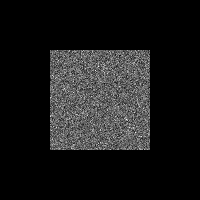
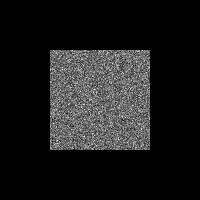
Implementation

Changed region(s): [[0.24, 0.24, 0.75, 0.75]]

diff --git a/src/main/java/net/danielthompson/danray/films/AbstractFilm.java b/src/main/java/net/danielthompson/danray/films/AbstractFilm.java
@@ -29,21 +29,21 @@ public abstract class AbstractFilm {
 
    protected void AddSampleToPixel(int x, int y, Sample sample, float weight) {
 
-      float existingImageWeight = Weights[x][y];
+      if (Samples[x][y] == null)
+         Samples[x][y] = new Spectrum();
 
       Weights[x][y] += weight;
+      Samples[x][y].add(SpectralPowerDistribution.scale(sample.SpectralPowerDistribution, weight));
 
-      float sumWeight = existingImageWeight + weight;
+      float r = Samples[x][y].R / Weights[x][y];
+      float g = Samples[x][y].G / Weights[x][y];
+      float b = Samples[x][y].B / Weights[x][y];
 
-      existingImageWeight /= sumWeight;
-      weight /= sumWeight;
+      float clampedR = clamp(0.0f, r, 1.0f);
+      float clampedG = clamp(0.0f, g, 1.0f);
+      float clampedB = clamp(0.0f, b, 1.0f);
 
-      SpectralPowerDistribution existingSPD = new SpectralPowerDistribution(new Color(Image.getRGB(x, y)));
-
-      SpectralPowerDistribution finalColor = SpectralPowerDistribution.Lerp(existingSPD, existingImageWeight, sample.SpectralPowerDistribution, weight);
-
-      Color c = new Color(finalColor.R, finalColor.G, finalColor.B);
-
+      Color c = new Color(clampedR, clampedG, clampedB);
       Image.setRGB(x, y, c.getRGB());
    }
 

diff --git a/src/main/java/net/danielthompson/danray/films/BoxFilterFilm.java b/src/main/java/net/danielthompson/danray/films/BoxFilterFilm.java
@@ -18,7 +18,6 @@ public class BoxFilterFilm extends AbstractFilm {
 
    @Override
    public void AddSamples(float x, float y, Sample[] samples) {
-
       int xFloor = (int)x;
       int yFloor = (int)y;
 
@@ -30,18 +29,16 @@ public class BoxFilterFilm extends AbstractFilm {
          Samples[xFloor][yFloor] = new Spectrum();
 
       for (Sample sample : samples) {
-         Samples[xFloor][yFloor].R += (sample.SpectralPowerDistribution.R);
-         Samples[xFloor][yFloor].G += (sample.SpectralPowerDistribution.G);
-         Samples[xFloor][yFloor].B += (sample.SpectralPowerDistribution.B);
+         Samples[xFloor][yFloor].add(sample.SpectralPowerDistribution);
       }
 
       float r = Samples[xFloor][yFloor].R * oneOverSamples;
       float g = Samples[xFloor][yFloor].G * oneOverSamples;
       float b = Samples[xFloor][yFloor].B * oneOverSamples;
 
-      float clampedR = (float)clamp(0.0f, r, 1.0f);
-      float clampedG = (float)clamp(0.0f, g, 1.0f);
-      float clampedB = (float)clamp(0.0f, b, 1.0f);
+      float clampedR = clamp(0.0f, r, 1.0f);
+      float clampedG = clamp(0.0f, g, 1.0f);
+      float clampedB = clamp(0.0f, b, 1.0f);
 
       Color newSampleColor = new Color(clampedR, clampedG, clampedB);
 

diff --git a/src/test/java/test/films/TriangleFilterFilmTests.java b/src/test/java/test/films/TriangleFilterFilmTests.java
@@ -51,11 +51,18 @@ public class TriangleFilterFilmTests {
    @Test
    public void testTriangleFilm2() {
       _film.AddSamples(2.0f, 2.0f, _samples);
+      _film.AddSamples(2.0f, 2.0f, _samples);
 
-      Color colorLeft = new Color(_film.Image.getRGB(1, 1));
-      Color colorRight = new Color(_film.Image.getRGB(2, 1));
+      Color colorTopLeft = new Color(_film.Image.getRGB(1, 2));
+      Color colorTopRight = new Color(_film.Image.getRGB(2, 2));
+      Color colorBottomLeft = new Color(_film.Image.getRGB(1, 1));
+      Color colorBottomRight = new Color(_film.Image.getRGB(2, 1));
 
-      Assert.assertEquals(colorLeft, new Color(128, 128, 128));
-      Assert.assertEquals(colorRight, new Color(128, 128, 128));
+      Color expectedColor = new Color(255, 255, 255);
+
+      Assert.assertEquals(colorTopLeft, expectedColor);
+      Assert.assertEquals(colorTopRight, expectedColor);
+      Assert.assertEquals(colorBottomLeft, expectedColor);
+      Assert.assertEquals(colorBottomRight, expectedColor);
    }
 }

diff --git a/src/main/java/net/danielthompson/danray/films/TriangleFilterFilm.java b/src/main/java/net/danielthompson/danray/films/TriangleFilterFilm.java
@@ -37,8 +37,14 @@ public class TriangleFilterFilm extends AbstractFilm {
          float bottomLeftPercentage = bottomLeftDistance * oneOverSum;
          float bottomRightPercentage = bottomRightDistance * oneOverSum;
 
-         // add center
-         AddSampleToPixel(xFloor, yFloor, sample, 1.0f);
+         // top left
+         AddSampleToPixel(xFloorMinus1, yFloorMinus1, sample, topLeftPercentage);
+         // top right
+         AddSampleToPixel(xFloor, yFloorMinus1, sample, topRightPercentage);
+         // bottom left
+         AddSampleToPixel(xFloorMinus1, yFloor, sample, bottomLeftPercentage);
+         // bottom right
+         AddSampleToPixel(xFloor, yFloor, sample, bottomRightPercentage);
       }
 
    }

diff --git a/src/main/java/net/danielthompson/danray/presets/LowQuality.java b/src/main/java/net/danielthompson/danray/presets/LowQuality.java
@@ -8,7 +8,7 @@ import net.danielthompson.danray.shapes.PartialSphere;
 public class LowQuality implements RenderQualityPreset {
    private final int _x = 640, _y = 480;
    private final int _maxDepth = 5;
-   private final int _samplesPerPixel = 16;
+   private final int _samplesPerPixel = 1024;
    private final int _superSamplesPerPixel = 1;
    private final int _airIndexOfRefraction = 1;
 

diff --git a/src/main/java/net/danielthompson/danray/TraceManager.java b/src/main/java/net/danielthompson/danray/TraceManager.java
@@ -2,6 +2,7 @@ package net.danielthompson.danray;
 
 import net.danielthompson.danray.acceleration.KDScene;
 import net.danielthompson.danray.films.BoxFilterFilm;
+import net.danielthompson.danray.films.TriangleFilterFilm;
 import net.danielthompson.danray.integrators.*;
 import net.danielthompson.danray.presets.RenderQualityPreset;
 import net.danielthompson.danray.presets.TracerOptions;
